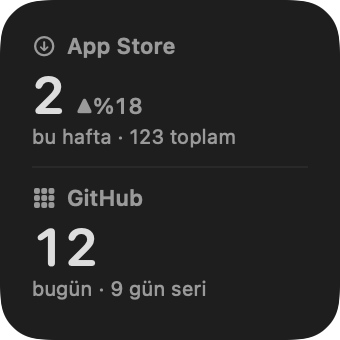
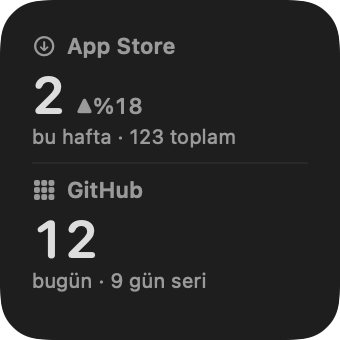
docs: describe the compact menu and widget fit check, refresh previews

diff --git a/README.md b/README.md
@@ -9,7 +9,8 @@ Your App Store and GitHub numbers in the macOS menu bar and on the desktop.
   conversion rate.
 - **GitHub:** contributions today, this week (▲▼ vs last week), last year and all time
   (the numbers on your profile overview), current and longest streak, the repos you
-  committed to most this week, a 7-day chart and a contribution heat grid.
+  committed to most this week (private repos included, via commit search), a 7-day
+  chart and a contribution heat grid.
 - **Resilient:** if an API is down, the last good numbers stay on screen with the time
   they were fetched.
 
@@ -99,15 +100,18 @@ writes `config.json` next to it. To switch keys, run it again with the new value
 ## Using it
 
 **Menu bar:** one item showing App Store downloads this week and GitHub contributions
-today. Click it for the tables. Hover an app for its details and a link to App Store
+today. Click it for a compact summary (about a dozen rows); details sit one level down.
+Hover an app for its details and a link to App Store
 Connect, its rating per country, its top countries and its reviews. The plugin
 refreshes every 30 minutes, **Yenile** refreshes now. New reviews arrive as a macOS
 notification from SwiftBar (allow SwiftBar notifications in System Settings).
 
 **Desktop widget:** right-click the desktop > **Edit Widgets** > search **Dev Stats**.
 Three sizes: small (two headline numbers with change and streak), medium (both
-columns with 7-day bars), large (adds revenue or rating, contributions last year,
-longest streak, the top apps with their rating, and a 25-week contribution grid).
+columns with 7-day bars), large (adds the top apps with their rating and a 25-week
+contribution grid with the longest streak). Run `DevStats --measure` after layout
+changes: it checks every size fits inside the widget's content area, because WidgetKit
+centers content that is too tall and cuts off the header row.
 It shows "eski veri" when the plugin has not refreshed for over an hour. Monochrome, follows
 light and dark mode. The widget reads the snapshot the menu bar plugin writes, so the
 plugin has to be running.
